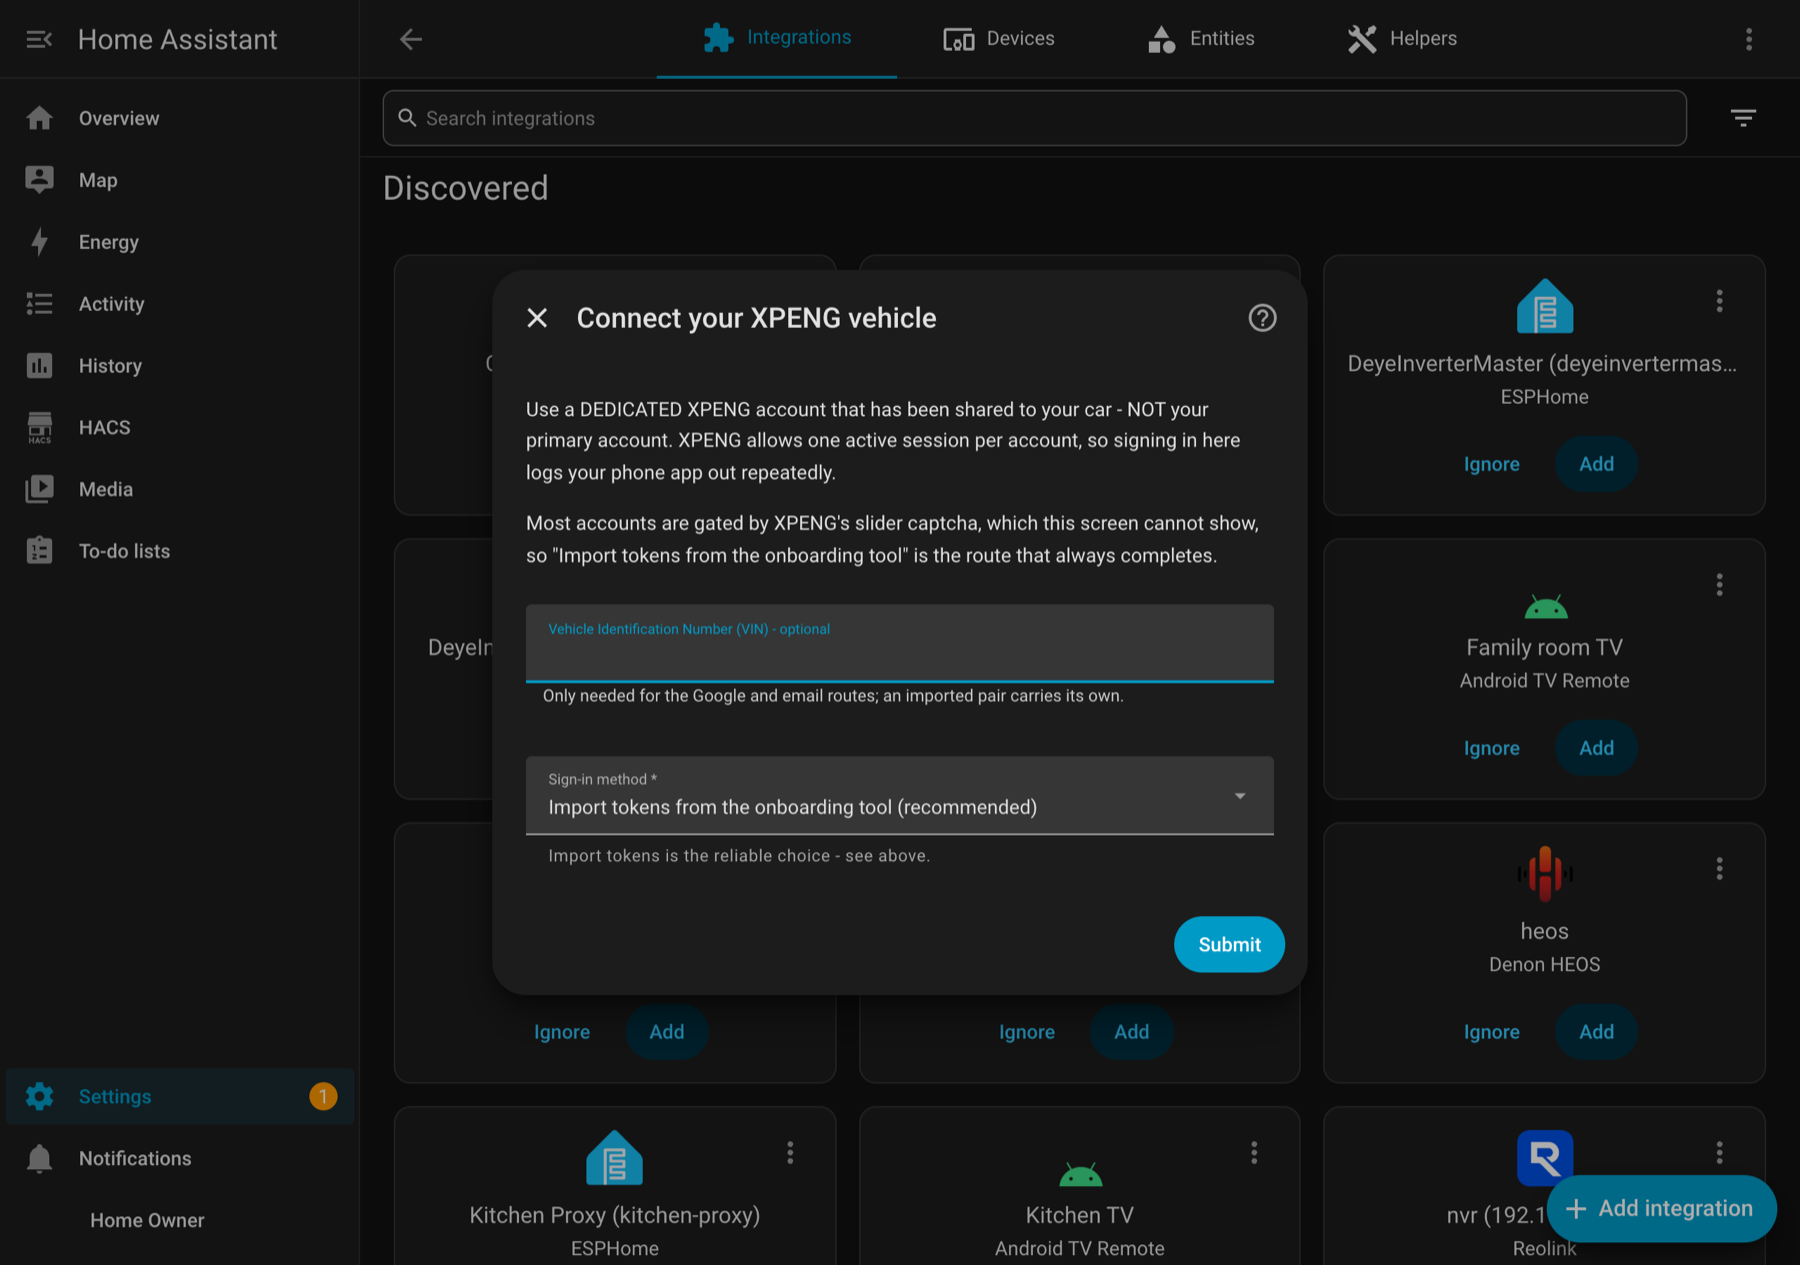
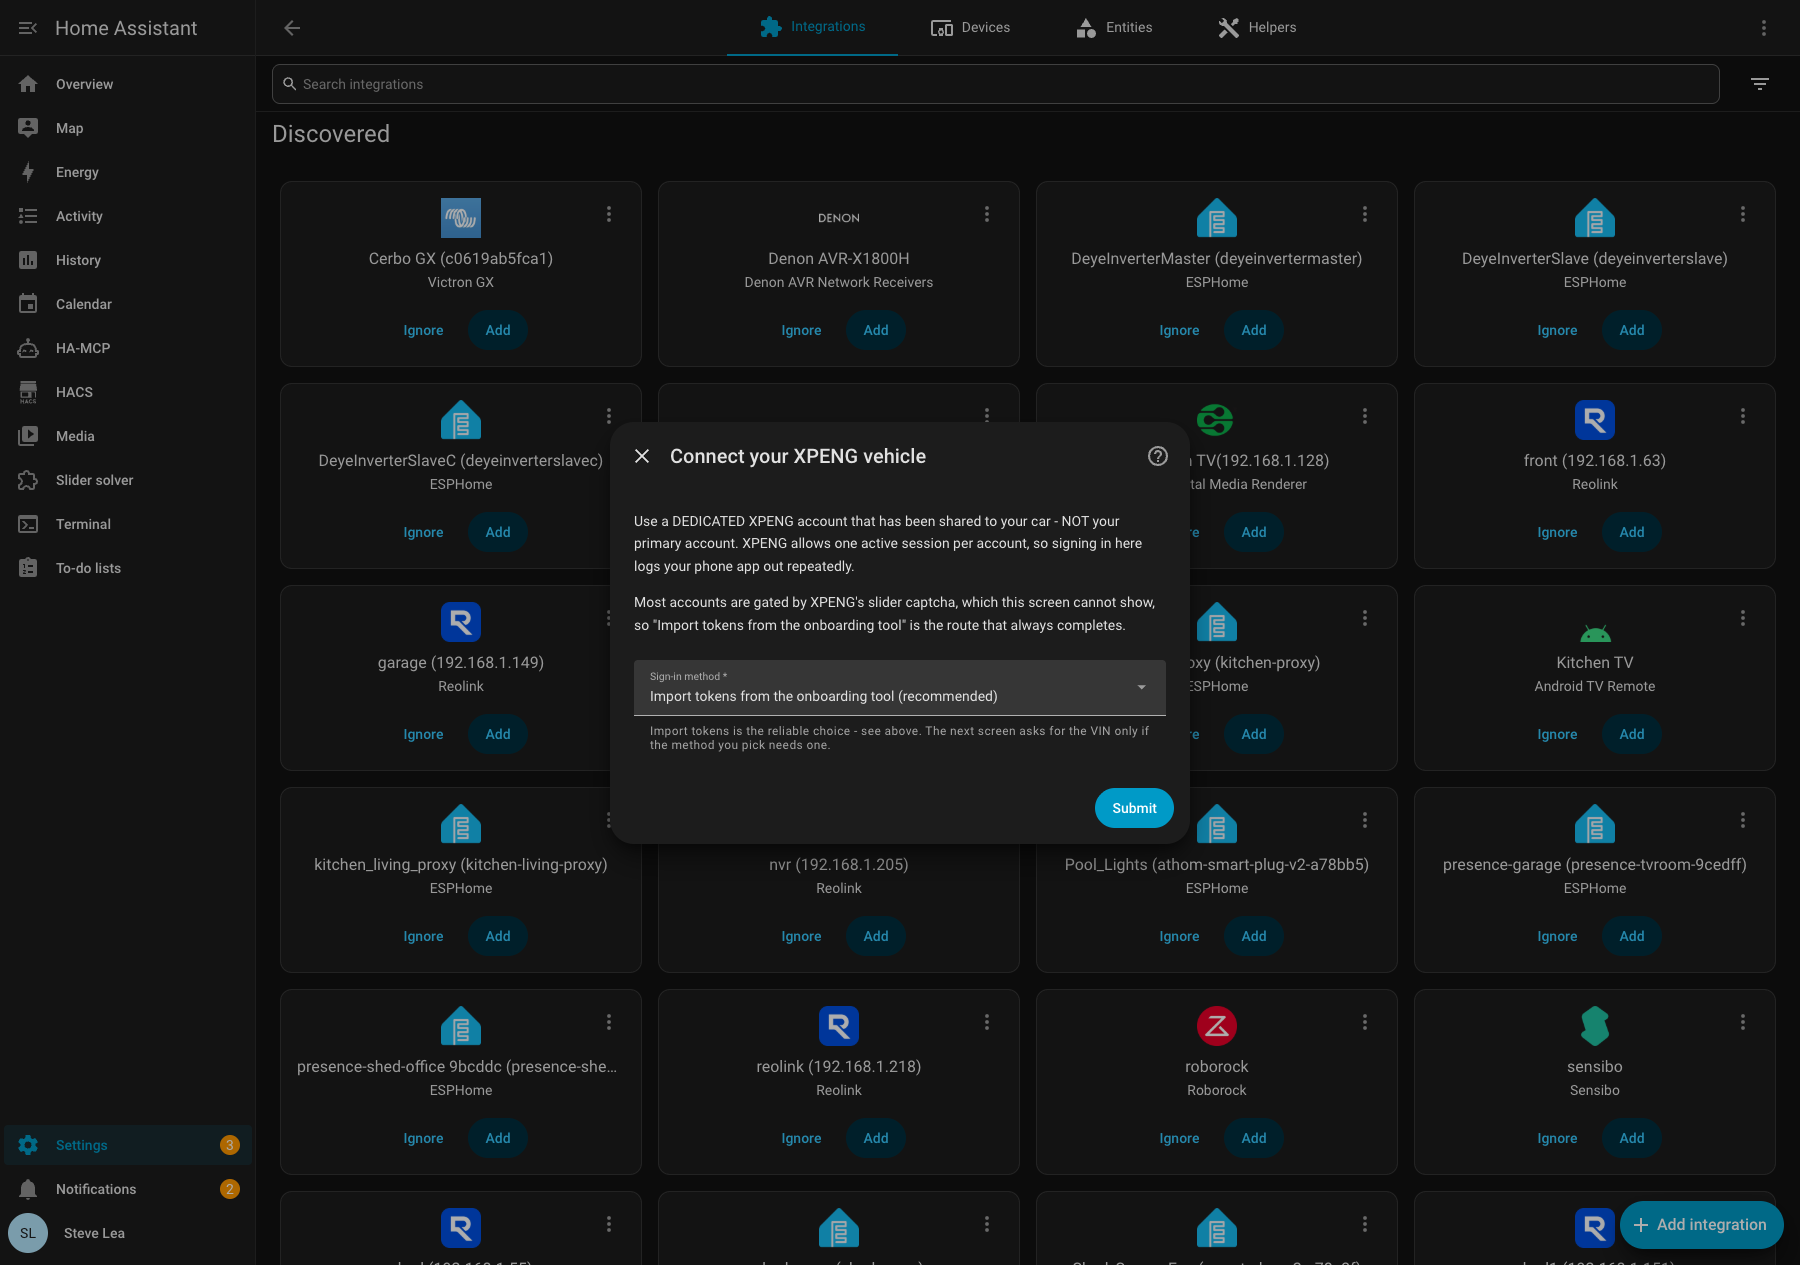
Docs: retake the first screen on 0.4.25 - the VIN box is gone from it
The screenshot was taken on a test install of 0.4.25 with no pair in `pair_dir`,
which is the state the page describes: install the integration, then add the
methods. It shows the dialog as it now is - the sign-in method, and nothing else -
so the prose note about the screenshots predating the change is no longer needed
and is removed.

Same framing as the shot it replaces: 1800x1265, dark theme, dialog over the
Integrations dashboard.

diff --git a/www/docs/guide/getting-started.md b/www/docs/guide/getting-started.md
@@ -133,8 +133,7 @@ Home Assistant cannot render or clear.
 
 That first screen asks for the sign-in method and nothing else. Only the Google
 and email screens ask for the VIN, because they have no pair to read one out of;
-the import screen takes it from the token file. (The screenshots on this page
-predate that change and still show a VIN box on the first screen.)
+the import screen takes it from the token file.
 
 ![The Import onboarding tokens screen](../images/ha-setup-import.png)
 
